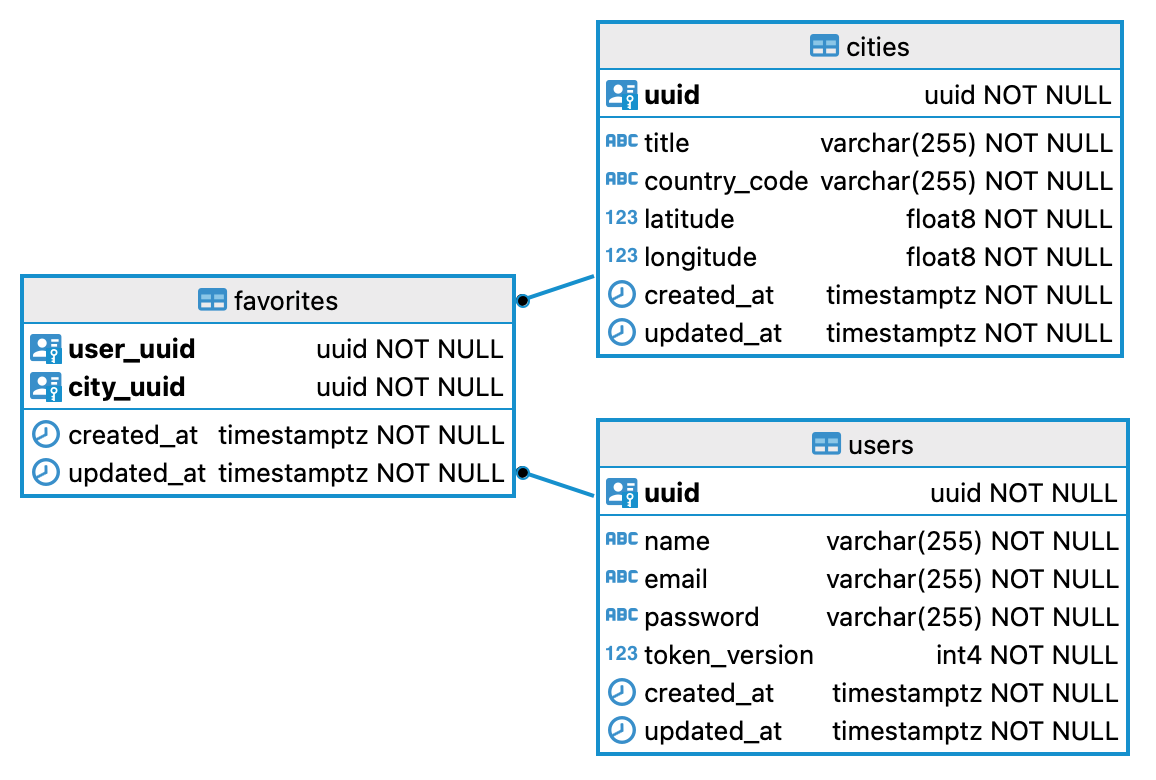
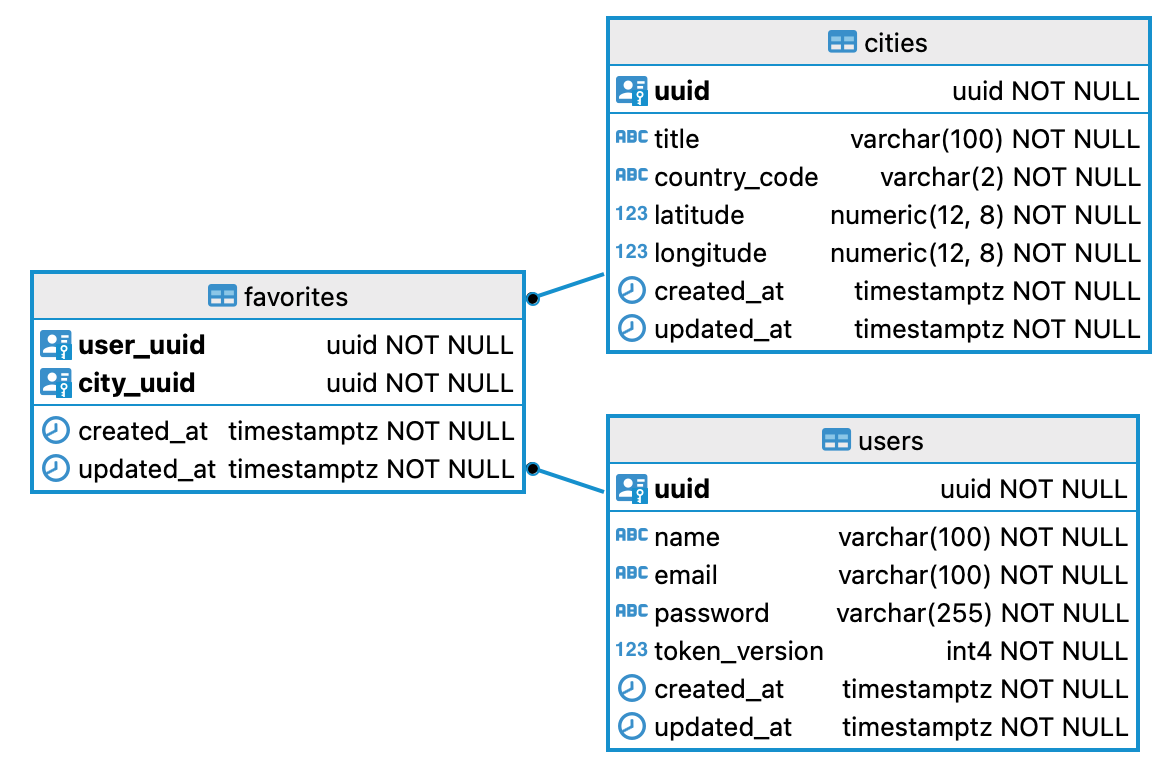
Added validation to sequelize models

Changed region(s): [[0.0, 0.0, 0.9965, 0.9846]]

diff --git a/server/src/db/models/User.js b/server/src/db/models/User.js
@@ -19,31 +19,35 @@ module.exports = (sequelize, DataTypes) => {
         primaryKey: true,
       },
       name: {
-        type: DataTypes.STRING,
+        type: DataTypes.STRING(100),
         allowNull: false,
         validate: {
           len: [1, 100],
         },
       },
       email: {
-        type: DataTypes.STRING,
+        type: DataTypes.STRING(100),
         allowNull: false,
         unique: true,
         validate: {
           isEmail: true,
+          len: [1, 100],
         },
       },
       password: {
-        type: DataTypes.STRING,
+        type: DataTypes.STRING(255),
         allowNull: false,
         validate: {
-          len: [1, 100],
+          len: [1, 255],
         },
       },
       tokenVersion: {
         type: DataTypes.INTEGER,
         allowNull: false,
         defaultValue: 0,
+        validate: {
+          isInt: true,
+        },
       },
     },
     {

diff --git a/server/src/db/models/City.js b/server/src/db/models/City.js
@@ -19,25 +19,25 @@ module.exports = (sequelize, DataTypes) => {
         primaryKey: true,
       },
       title: {
-        type: DataTypes.STRING,
+        type: DataTypes.STRING(100),
         allowNull: false,
         validate: {
           len: [1, 100],
         },
       },
       countryCode: {
-        type: DataTypes.STRING,
+        type: DataTypes.STRING(2),
         allowNull: false,
         validate: {
-          len: [1, 100],
+          len: [2, 2],
         },
       },
       latitude: {
-        type: DataTypes.FLOAT,
+        type: DataTypes.DECIMAL(12, 8),
         allowNull: false,
       },
       longitude: {
-        type: DataTypes.FLOAT,
+        type: DataTypes.DECIMAL(12, 8),
         allowNull: false,
       },
     },

diff --git a/client/src/services/locationService.js b/client/src/services/locationService.js
@@ -2,15 +2,16 @@ import axios from 'axios';
 
 const getLocationByIP = async () => {
   try {
-    const response = await axios.get('https://ipwho.is');
-    const {
-      city,
-      country_code: countryCode,
-      latitude,
-      longitude,
-    } = response.data;
+    const { data } = await axios.get('https://ipwho.is');
 
-    return { city, countryCode, latitude, longitude };
+    const formattedData = {
+      city: data.city,
+      countryCode: data.country_code,
+      latitude: data.latitude.toFixed(8),
+      longitude: data.longitude.toFixed(8),
+    };
+
+    return formattedData;
   } catch (error) {
     console.error(
       'API ipwho.is не зміг надати дійсні дані про місцезнаходження: ',

diff --git a/server/src/db/migrations/b-create-city.js b/server/src/db/migrations/b-create-city.js
@@ -13,19 +13,19 @@ module.exports = {
         unique: true,
       },
       title: {
-        type: Sequelize.STRING,
+        type: Sequelize.STRING(100),
         allowNull: false,
       },
       country_code: {
-        type: Sequelize.STRING,
+        type: Sequelize.STRING(2),
         allowNull: false,
       },
       latitude: {
-        type: Sequelize.FLOAT,
+        type: Sequelize.DECIMAL(12, 8),
         allowNull: false,
       },
       longitude: {
-        type: Sequelize.FLOAT,
+        type: Sequelize.DECIMAL(12, 8),
         allowNull: false,
       },
       created_at: {

diff --git a/client/src/services/authService.js b/client/src/services/authService.js
@@ -7,6 +7,7 @@ const registration = async (name, email, password) => {
     email,
     password,
   });
+
   saveAccessToken(response.data.accessToken);
   return response;
 };
@@ -16,17 +17,20 @@ const login = async (email, password) => {
     email,
     password,
   });
+
   saveAccessToken(response.data.accessToken);
   return response;
 };
 
 const refreshAccessToken = async () => {
   const response = await api.get('/auth/refresh');
+
   return response;
 };
 
 const logout = async () => {
   const response = await api.get('/auth/logout');
+
   removeAccessToken();
   return response;
 };

diff --git a/client/src/services/weatherService.js b/client/src/services/weatherService.js
@@ -13,7 +13,14 @@ const getCitySuggestions = async (searchTerm) => {
       },
     }
   );
-  return data;
+
+  const formattedData = data.map((city) => ({
+    ...city,
+    lat: city.lat.toFixed(8),
+    lon: city.lon.toFixed(8),
+  }));
+
+  return formattedData;
 };
 
 const getWeather = async (latitude, longitude) => {
@@ -28,6 +35,7 @@ const getWeather = async (latitude, longitude) => {
       },
     }
   );
+
   return data;
 };
 
@@ -43,6 +51,7 @@ const getForecast = async (latitude, longitude) => {
       },
     }
   );
+
   return data;
 };
 

diff --git a/server/src/db/migrations/a-create-user.js b/server/src/db/migrations/a-create-user.js
@@ -13,16 +13,16 @@ module.exports = {
         unique: true,
       },
       name: {
-        type: Sequelize.STRING,
+        type: Sequelize.STRING(100),
         allowNull: false,
       },
       email: {
-        type: Sequelize.STRING,
+        type: Sequelize.STRING(100),
         allowNull: false,
         unique: true,
       },
       password: {
-        type: Sequelize.STRING,
+        type: Sequelize.STRING(255),
         allowNull: false,
       },
       token_version: {

diff --git a/server/src/db/models/Favorite.js b/server/src/db/models/Favorite.js
@@ -20,6 +20,7 @@ module.exports = (sequelize, DataTypes) => {
       userUuid: {
         type: DataTypes.UUID,
         allowNull: false,
+        primaryKey: true,
         references: {
           model: 'users',
           key: 'uuid',
@@ -28,6 +29,7 @@ module.exports = (sequelize, DataTypes) => {
       cityUuid: {
         type: DataTypes.UUID,
         allowNull: false,
+        primaryKey: true,
         references: {
           model: 'cities',
           key: 'uuid',

diff --git a/client/src/services/favoritesService.js b/client/src/services/favoritesService.js
@@ -12,6 +12,7 @@ const addCityToFavorites = async (city, countryCode, latitude, longitude) => {
     latitude,
     longitude,
   });
+
   return response;
 };
 
@@ -22,6 +23,7 @@ const removeCityFromFavorites = async (latitude, longitude) => {
       longitude,
     },
   });
+
   return response;
 };
 
